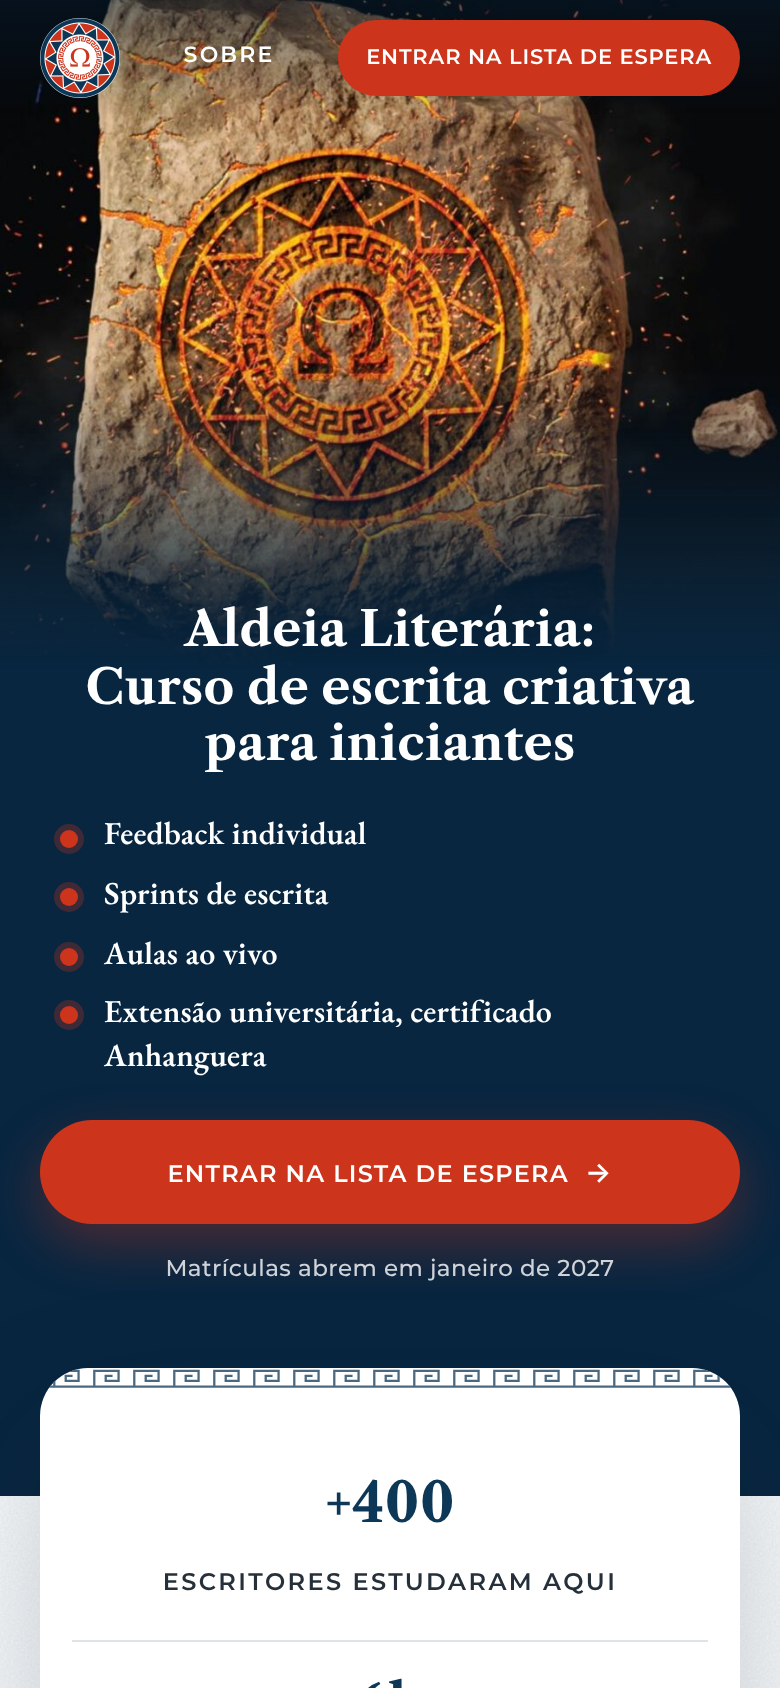
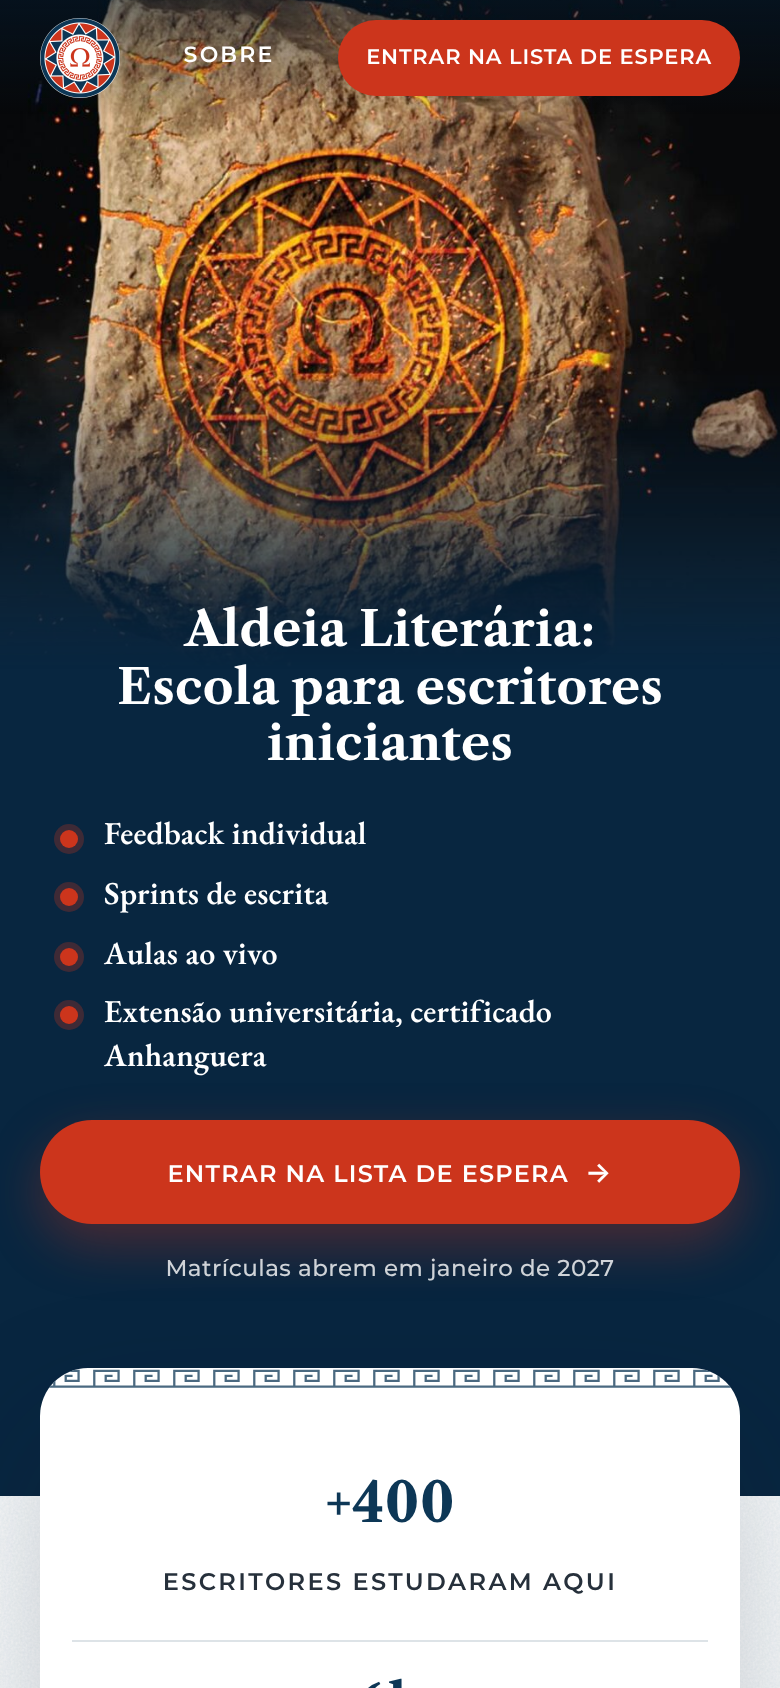
Previa do H1 'Aldeia Literaria: Escola para escritores iniciantes' (aguardando aprovacao; modelo home-v30.json ainda nao regenerado)
Claude-Session: https://claude.ai/code/session_01Hp3oUh9xXcmAutJAf3SHXp

Changed region(s): [[0.0923, 0.3697, 0.8923, 0.4621]]

diff --git a/preview/vendas.html b/preview/vendas.html
@@ -1081,7 +1081,7 @@ body.av-page{margin:0}
 <!-- HERO -->
 <section class="av-hero"><div class="av-wrap av-hero__grid">
   <div class="av-reveal">
-    <h1 class="av-h1"><span>Aldeia Literária:</span> <span>Curso de escrita criativa</span> <span>para iniciantes</span></h1>
+    <h1 class="av-h1"><span>Aldeia Literária:</span> <span>Escola para escritores</span> <span>iniciantes</span></h1>
     <ul class="av-hero__pts">
       <li><h3>Feedback individual</h3></li>
       <li><h3>Sprints de escrita</h3></li>

diff --git a/tools/src/body.html b/tools/src/body.html
@@ -8,7 +8,7 @@
 <!-- HERO -->
 <section class="av-hero"><div class="av-wrap av-hero__grid">
   <div class="av-reveal">
-    <h1 class="av-h1"><span>Aldeia Literária:</span> <span>Curso de escrita criativa</span> <span>para iniciantes</span></h1>
+    <h1 class="av-h1"><span>Aldeia Literária:</span> <span>Escola para escritores</span> <span>iniciantes</span></h1>
     <ul class="av-hero__pts">
       <li><h3>Feedback individual</h3></li>
       <li><h3>Sprints de escrita</h3></li>
